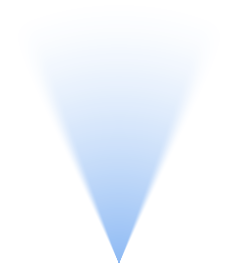
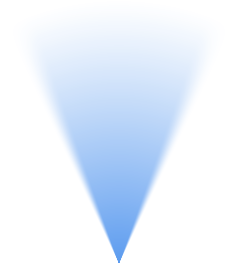
Maps: stronger compass beam; 1.1.0 (build 7)
The owner found it too faint on a phone: higher peak opacity and a slower
fade with distance.

Changed region(s): [[0.2353, 0.303, 0.7647, 1.0]]

diff --git a/scripts/maps/make-beam.py b/scripts/maps/make-beam.py
@@ -14,7 +14,7 @@ OUT = os.path.join(os.path.dirname(os.path.abspath(__file__)), "../../assets/map
 RADIUS = 88  # points
 WIDTHS = {"narrow": 26, "wide": 44}  # half angle, degrees
 COLORS = {"light": (0x1A, 0x73, 0xE8), "dark": (0x4C, 0x8D, 0xF6)}
-PEAK = {"light": 0.5, "dark": 0.56}
+PEAK = {"light": 0.72, "dark": 0.78}
 EDGE = 7  # degrees of soft edge
 
 
@@ -33,7 +33,7 @@ def beam(half, rgb, peak, scale):
             ang = abs(math.degrees(math.atan2(dx, dy)))
             if ang >= half:
                 continue
-            radial = (1 - d / r) ** 1.4
+            radial = (1 - d / r) ** 1.1
             side = min(1.0, (half - ang) / EDGE)
             side = side * side * (3 - 2 * side)  # smoothstep
             a = peak * radial * side

diff --git a/docs/PROGRESS.md b/docs/PROGRESS.md
@@ -6,7 +6,7 @@ can pick up without re-deriving anything.
 
 ## Current state (2026-10-25)
 
-- **Version 1.1.0 (iOS build 6)** on TestFlight 2026-10-25 (build 5 earlier that day);
+- **Version 1.1.0 (iOS build 7)** on TestFlight 2026-10-25 (builds 5–6 earlier that day);
   **1.0.1 (build 3)** waiting for App Review. Release process and version table: `docs/RELEASE.md`.
 - All four MVP modules plus onboarding work end to end on the iOS simulator (iOS 27,
   Release) and the Android emulator (API 36, release APK). iPad layout verified (visual
@@ -58,7 +58,7 @@ on 2026-10-25 from an "internet goes down" checklist; follow-ups are at the end.
    Measure on a real phone: route time/memory, assembling Spain (2.2 GB, JS copy), mmap of
    a 2 GB tar on iOS (may need `com.apple.developer.kernel.extended-virtual-addressing`).
    Then phase 3 (turn-by-turn: voice with expo-speech, background location).
-1. Watch App Review for 1.0.1; test 1.1.0 (build 6, TestFlight) on a real iPhone: compass beam, street search,: routing
+1. Watch App Review for 1.0.1; test 1.1.0 (build 7, TestFlight) on a real iPhone: compass beam, street search,: routing
    packs (download Spain 2.2 GB, route time/memory), Preparedness reminders, GPU
    llama.cpp, Apple Intelligence, background downloads, Files import, airplane mode.
 2. Resume downloads after the app is killed on iOS: reattach the background URLSession
@@ -134,6 +134,7 @@ Build gotchas moved to `docs/DEVELOPMENT.md`.
   sensor, so no compass events; the iOS simulator has no compass either): the beam
   renders from the puck, under the map's dots. Tab blur/focus verified; a sheet over the
   map keeps it. iOS map-08/10/14 pass. Needs a real phone to see it turn.
+- Owner on build 6: beam too faint. Peak opacity 0.5 → 0.72 (dark 0.56 → 0.78), slower fade (build 7).
 
 ### 2026-10-25 — Whole-country packs; street search from the packs
 

diff --git a/docs/RELEASE.md b/docs/RELEASE.md
@@ -24,9 +24,9 @@ Everything lives in `app.json`; `ios/` and `android/` get it from `npx expo preb
 
 - Marketing version: `expo.version` (currently **1.1.0**). Keep `package.json`'s
   `version` equal (not used by the build, but it's what people read).
-- iOS build number: `expo.ios.buildNumber` (currently **"6"**) → `CFBundleVersion`. Bump it
+- iOS build number: `expo.ios.buildNumber` (currently **"7"**) → `CFBundleVersion`. Bump it
   for every upload: App Store Connect rejects a build number it has already seen.
-- Android: `expo.android.versionCode` (currently **6**, nothing published yet). Must grow
+- Android: `expo.android.versionCode` (currently **7**, nothing published yet). Must grow
   with every Play upload.
 - After changing any of them, run `npx expo prebuild` (it can regenerate `ios/` and
   `android/` from scratch: then `cd ios && pod install`).
@@ -38,6 +38,7 @@ Everything lives in `app.json`; `ios/` and `android/` get it from `npx expo preb
 | 1.0.2 | 4 | uploaded to TestFlight 2026-10-24 (`51fbe2a`) |
 | 1.1.0 | 5 | TestFlight 2026-10-25: map search, Emergencias, offline road routing, Preparedness, conversational assistant |
 | 1.1.0 | 6 | TestFlight 2026-10-25: whole-country routing packs, street search from the packs, compass beam |
+| 1.1.0 | 7 | TestFlight 2026-10-25: stronger compass beam |
 
 Check App Store Connect for the current state before assuming the table is still true,
 and update it here after each upload or review result.
